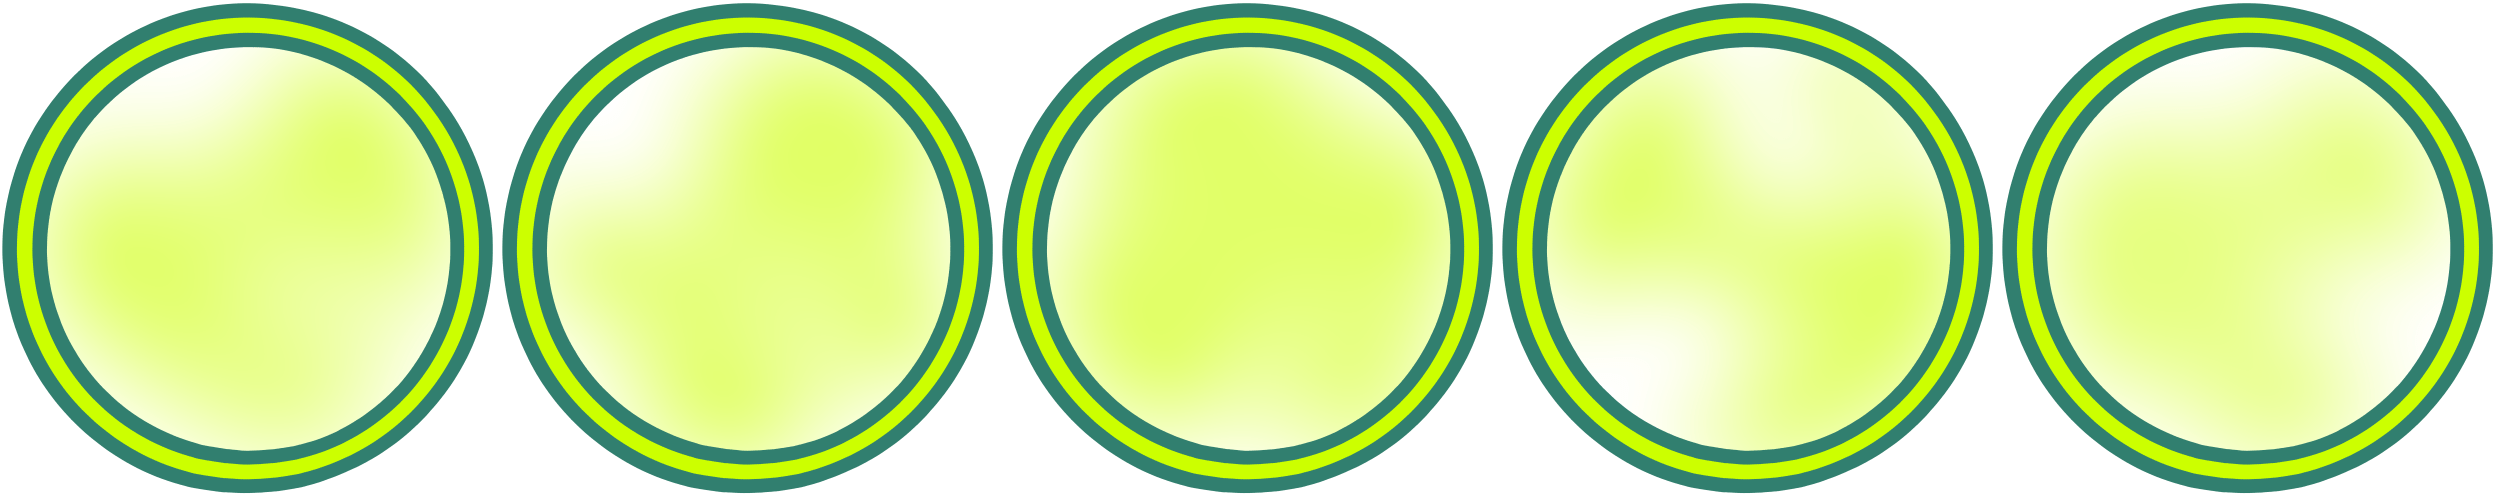
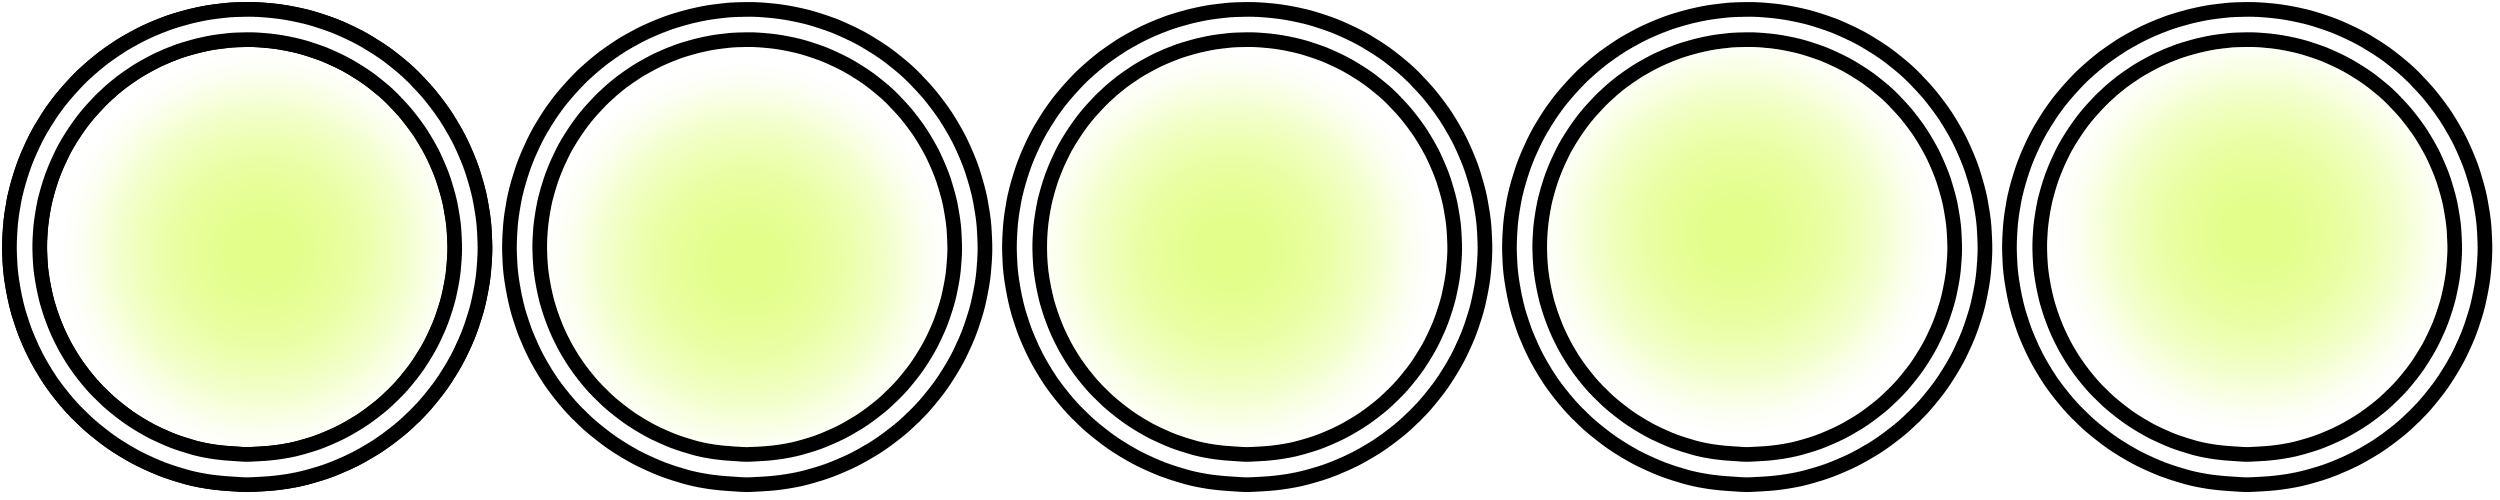
World cup themed charge orbs (#1034)

diff --git a/src/_common/animation/slideshow/sheets.ts b/src/_common/animation/slideshow/sheets.ts
@@ -57,10 +57,9 @@ export const sheetChargeOrbBottom = new ImgSlideshow({
 
 export const sheetChargeOrbTop = new ImgSlideshow({
 	asset: assetChargeOrbTop,
-	assetWidth: 2000,
+	assetWidth: 2500,
 	assetHeight: 500,
-	frames: 4,
-	blankFrames: 2,
+	frames: 5,
 	fps: 6,
 });
 
